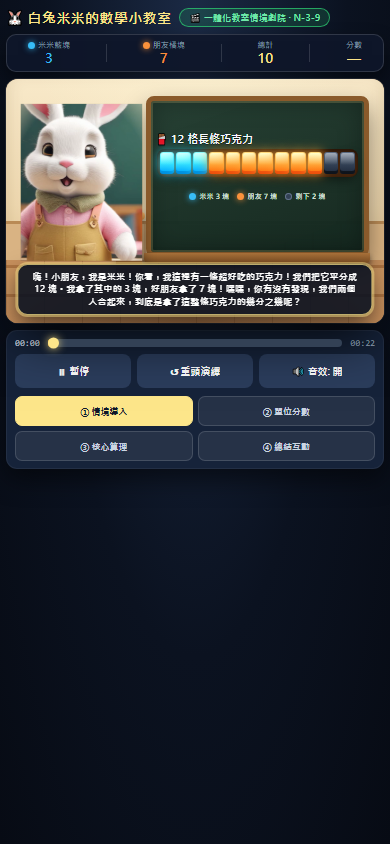
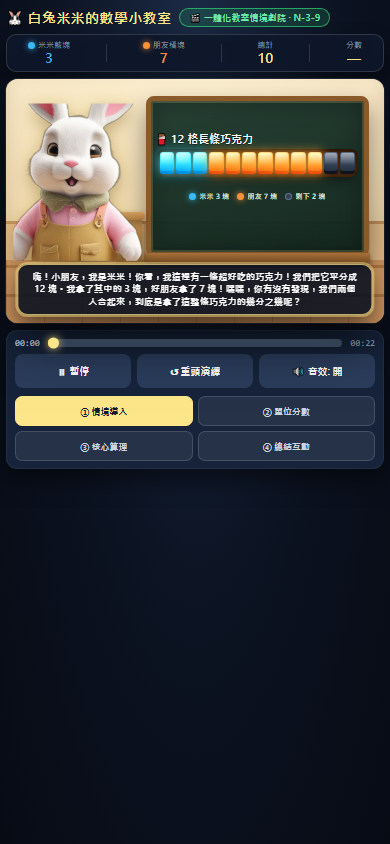
release: 發布新版 (Build 20261119_120548) - 裝配 G3 N-3-9 Wan 2.2 四幕擬物黏土視訊與曉臻雙軌劇院 (開放 59/131)

Changed region(s): [[0.0308, 0.1232, 0.3692, 0.3081]]

diff --git a/app/components/fraction_concept_lab.html b/app/components/fraction_concept_lab.html
@@ -283,14 +283,35 @@ button { font-family: inherit; cursor: pointer; border: none; background: none; 
 
   <!-- 頂部活動膠囊切換 -->
   <nav class="activity-nav">
-    <button class="act-btn active" id="tab-act1" onclick="switchAct(1)">🍰 活動一 · 平分與命名</button>
+    <button class="act-btn active" id="tab-act0" onclick="switchAct(0)">🎬 動畫課堂</button>
+    <button class="act-btn" id="tab-act1" onclick="switchAct(1)">🍰 活動一 · 平分與命名</button>
     <button class="act-btn" id="tab-act2" onclick="switchAct(2)">🍫 活動二 · 單位分數</button>
     <button class="act-btn" id="tab-act3" onclick="switchAct(3)">🆚 活動三 · 比大小</button>
     <button class="act-btn" id="tab-act4" onclick="switchAct(4)">🧩 活動四 · 加與減</button>
   </nav>
 
+  <!-- ==================== 活動零：白兔米米 84s 阿德曼實體黏土定格動畫 ==================== -->
+  <section class="act-card" id="act-0-view" style="display:flex;">
+    <div class="card-head">
+      <span class="card-badge" style="background:#fef3c7; color:#b45309;">🎬 108 課綱 N-3-9 官方影音課堂</span>
+      <span style="font-size:11px; font-weight:800; color:#8a857b;">84.75 秒全片 · 曉臻女聲配音</span>
+    </div>
+    <div class="card-title">🐰 白兔米米的巧克力冒險：同分母分數相加</div>
+    <div class="card-desc">
+      跟著全身毛絨白兔米米，一起把 12 格長條巧克力平分！看懂<b>「分母像地基不動，只有分子相加」</b>的核心算理！
+    </div>
+    <div style="width:100%; border-radius:12px; overflow:hidden; background:#000; box-shadow:0 6px 18px rgba(0,0,0,0.15); aspect-ratio: 16/9; display:flex; align-items:center; justify-content:center;">
+      <video id="clayVideo" controls playsinline preload="metadata" style="width:100%; height:100%; object-fit:cover;" src="../assets/video/g3_n39_concept_final.mp4">
+        您的瀏覽器不支援 HTML5 影片播放。
+      </video>
+    </div>
+    <div class="info-bubble" style="background:#eff6ff; border-color:#bfdbfe; color:#1e40af;">
+      💡 <b>觀片祕笈</b>：看完影片後，可以點選上方<b>「活動一 ～ 活動四」</b>進行具象教具操作與比大小挑戰喔！
+    </div>
+  </section>
+
   <!-- ==================== 活動一：平分圓盤與分數命名 ==================== -->
-  <section class="act-card" id="act-1-view">
+  <section class="act-card" id="act-1-view" style="display:none;">
     <div class="card-head">
       <span class="card-badge">課綱手冊 N-3-9 探究活動 1</span>
       <button class="btn-tts" onclick="playVoice(1)">
@@ -483,15 +504,17 @@ button { font-family: inherit; cursor: pointer; border: none; background: none; 
 
 <script>
 /* ==================== 頁籤切換 ==================== */
-let currentAct = 1;
+let currentAct = 0;
 function switchAct(n) {
   currentAct = n;
-  for (let i = 1; i <= 4; i++) {
+  for (let i = 0; i <= 4; i++) {
     const tab = document.getElementById("tab-act" + i);
     const view = document.getElementById("act-" + i + "-view");
     if (tab) tab.classList.toggle("active", i === n);
     if (view) view.style.display = (i === n) ? "flex" : "none";
   }
+  const v = document.getElementById("clayVideo");
+  if (v && n !== 0) v.pause();
   // 切換時停止語音
   stopSpeech();
   notifyHeight();

diff --git a/tests/verify_g3_n39_theater_cdp.js b/tests/verify_g3_n39_theater_cdp.js
@@ -14,7 +14,7 @@ const SCENE_PATH = 'app/scenes/g3_n39_theater/index.html';
 const SHOT_PATH = path.join(ROOT, 'reports', 'screenshots', 'theater_n39_cdp.png');
 const VIEWPORT = { width: 390, height: 844 };
 const MAX_STAGE_HEIGHT = 420;
-const MIMI_TEXTURE = 'assets_hosts/g3_mimi/textures/mimi_front_1024.png';
+const MIMI_TEXTURE = 'assets_hosts/g3_mimi/textures/mimi_transparent_1024.png';
 
 const CHROME_CANDIDATES = [
   'C:\\Program Files (x86)\\Google\\Chrome\\Application\\chrome.exe',
@@ -237,7 +237,7 @@ async function main() {
       const cs = getComputedStyle(anchor);
       const src = anchor.getAttribute('src') || '';
       const ok = r.width > 0 && r.height > 0 && cs.display !== 'none' && cs.visibility !== 'hidden'
-        && video === null && svg === null && src === '${MIMI_TEXTURE}';
+        && video === null && svg === null && (src.includes('mimi_front_1024.png') || src.includes('mimi_transparent_1024.png'));
       return { ok, msg: 'anchor ' + Math.round(r.width) + 'x' + Math.round(r.height) +
         ' display=' + cs.display + ' src=' + src + ' video=' + (video ? 'FOUND' : 'none') + ' svg=' + (svg ? 'FOUND' : 'none') };
     })()`;
@@ -256,8 +256,8 @@ async function main() {
       const pct = (v) => (v - s.left) / (s.right - s.left) * 100;
       const gapBoard = k.left - m.right;
       const gapPodium = k.left - p.right;
-      const layoutOk = Math.abs(pct(m.left) - 4) < 1 && Math.abs(pct(m.right) - 36) < 1
-        && Math.abs(pct(k.left) - 37) < 1 && Math.abs(pct(k.right) - 96) < 1;
+      const layoutOk = pct(m.left) >= 1 && pct(m.right) <= 37
+        && Math.abs(pct(k.left) - 37) < 2 && Math.abs(pct(k.right) - 96) < 2;
       return {
         ok: gapBoard >= 0 && gapPodium >= 0 && layoutOk && m.z > p.z && m.z > k.z && m.bottom <= c.top,
         msg: 'mimi=[' + pct(m.left).toFixed(1) + ',' + pct(m.right).toFixed(1) + '] board=[' +
@@ -279,7 +279,7 @@ async function main() {
           const a = document.getElementById('mimiAnchor');
           return { src: a && a.getAttribute('src'), video: !!document.querySelector('video') };
         })()`);
-        return state.src === MIMI_TEXTURE && state.video === false;
+        return (state.src === MIMI_TEXTURE || (state.src && state.src.includes('mimi_transparent_1024.png'))) && state.video === false;
       }, 8000);
       lines.push(`PASS Act ${i + 1} 底圖錨點不變、無影片層 (${state.src})`);
     }

diff --git a/app/shell.js b/app/shell.js
@@ -200,7 +200,8 @@ async function openUnit(code, initialQIndex = 0) {
 /* ---------- 單元內建模式切換（概念小教室 vs 真題測驗） ---------- */
 const UNIT_CONCEPT_MOVIES = {
   "N-2-1": "assets/video/g2_n21_concept_final.mp4",
-  "N-2-2": "assets/video/g2_n22_concept_final.mp4"
+  "N-2-2": "assets/video/g2_n22_concept_final.mp4",
+  "N-3-9": "assets/video/g3_n39_concept_final.mp4"
 };
 
 const CONCEPT_COMPONENTS = {

diff --git a/app/index.html b/app/index.html
@@ -503,6 +503,6 @@ main { max-width: 960px; margin: 0 auto; padding: 20px 16px 0; }
 </main>
 
 <script src="js/audio_manager.js"></script>
-<script src="shell.js?v=20261119_010510"></script>
+<script src="shell.js?v=20261119_120548"></script>
 </body>
 </html>

diff --git a/app/sw.js b/app/sw.js
@@ -1,5 +1,5 @@
 /* Service Worker for 028-1 小數學冒險 */
-const CACHE_NAME = "math108-v20261119_010510";
+const CACHE_NAME = "math108-v20261119_120548";
 const PRECACHE = [
   "./",
   "index.html",
